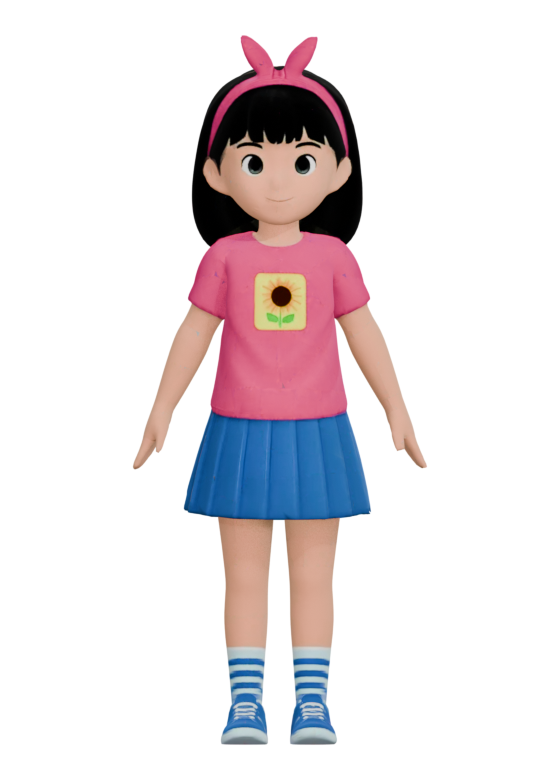
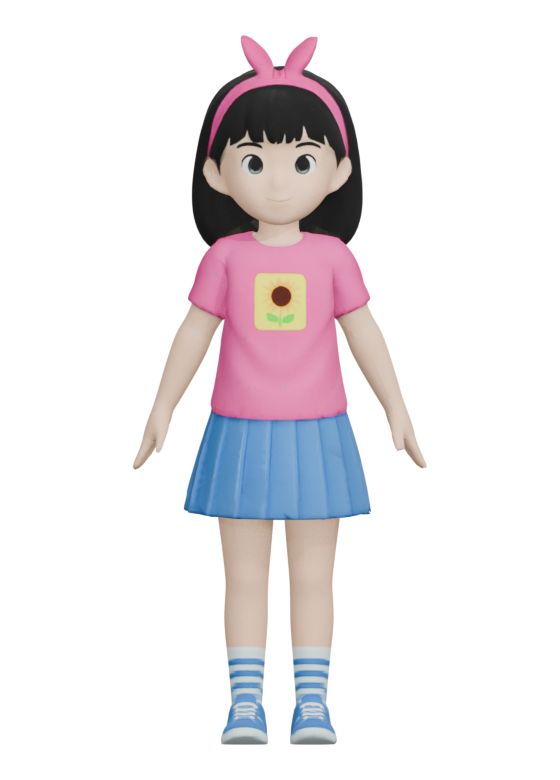
fix: take the gloss off the characters, and drop zoom from the lab
The sources carry Mixamo's default roughness of 0.5, which reads as wet plastic
on a cloth character. avatar-export.py now writes roughness 1.0 explicitly.

The same pass found a second fault worth more than the gloss: one of the four
exported with no metallic factor at all, and glTF reads a missing metallic
factor as 1.0 -- fully metal. Metallic is now written as 0 explicitly, so
neither value is left to a default that happens to be wrong.

Zoom is off. Turning is the whole interaction; zoom took the body off the floor
it was composed on, and scrolling over a canvas mid-page stole the page's own
scroll.

Changed region(s): [[0.2429, 0.0308, 0.7589, 0.9538]]

diff --git a/components/studio/character-stage.tsx b/components/studio/character-stage.tsx
@@ -16,7 +16,7 @@ export type CharacterStageProps = {
   /** Rendered height in pixels; the canvas is sized to it. */
   height: number;
   eager?: boolean;
-  /** Let the member turn and zoom the body. For the lab, not for a dashboard. */
+  /** Let the member turn the body. For the lab, not for a dashboard. */
   interactive?: boolean;
   /** Play the entry animation when the body changes. */
   animate?: boolean;
@@ -64,11 +64,13 @@ export function CharacterStage({
           <OrbitControls
             makeDefault
             enablePan={false}
+            // Turning is the whole interaction. Zoom took the body off its floor
+            // and out of the frame it was composed for, and scrolling over a
+            // canvas mid-page stole the page's own scroll.
+            enableZoom={false}
             // Aimed at the chest rather than the origin, which sits near the feet
             // once the body is stood on the floor of the frame.
             target={[0, -0.2, 0]}
-            minDistance={3.2}
-            maxDistance={9}
             // Stops short of the poles: from directly overhead or below, a body
             // standing on a floor reads as a mistake.
             minPolarAngle={0.7}

diff --git a/components/studio/character-picker.tsx b/components/studio/character-picker.tsx
@@ -89,7 +89,7 @@ export function CharacterCarousel({
       </div>
 
       <p className="pointer-events-none absolute inset-x-0 bottom-1 z-10 text-center text-[10px] text-ink-faint">
-        Drag to turn · scroll to zoom
+        Drag to turn
       </p>
     </div>
   );

diff --git a/scripts/assets/avatar-export.py b/scripts/assets/avatar-export.py
@@ -2,7 +2,9 @@
 #
 #   blender -b D:\Blender\characters_working.blend -P scripts/assets/avatar-export.py -- <repo-root>
 #
-# Materials are left exactly as drawn (D-52). The A-pose is baked into the mesh
+# Each character keeps its authored colour (D-52); only the surface response is
+# corrected, because the sources ship Mixamo's glossy defaults. The A-pose is
+# baked into the mesh
 # and the rig is dropped, so the exported geometry is the body in world
 # coordinates: three's Box3 then measures what is actually drawn, which is what
 # makes every character come out the same size. Animation will need this run
@@ -59,12 +61,16 @@ def bake_pose(mesh):
         bpy.data.objects.remove(rig, do_unlink=True)
 
 
-def quiet_emission(mesh):
-    """Drop any emission the source file left wired up.
+def matte_material(mesh):
+    """Take the shine off, and unwire anything the source left self-lit.
 
-    One of the four routes its base colour into Emission as well, which makes it
-    self-lit: it reads as washed out next to the other three no matter what the
-    scene lighting does.
+    Three of the four arrive at Mixamo's default roughness of 0.5, which reads as
+    wet plastic on a cloth character. The fourth carries no metallic value at
+    all, and glTF reads a missing metallic factor as 1.0 -- fully metal -- so
+    both are set explicitly rather than left to a default.
+
+    One of the four also routes its base colour into Emission, which makes it
+    self-lit and washed out next to the rest whatever the scene lighting does.
     """
     for slot in mesh.material_slots:
         material = slot.material
@@ -74,11 +80,15 @@ def quiet_emission(mesh):
         bsdf = next((n for n in tree.nodes if n.type == "BSDF_PRINCIPLED"), None)
         if bsdf is None:
             continue
+
         for link in list(tree.links):
             if link.to_node.name == bsdf.name and link.to_socket.name == "Emission Color":
                 tree.links.remove(link)
         if "Emission Strength" in bsdf.inputs:
             bsdf.inputs["Emission Strength"].default_value = 0.0
+
+        bsdf.inputs["Roughness"].default_value = 1.0
+        bsdf.inputs["Metallic"].default_value = 0.0
 
 
 def stand_at_origin(mesh):
@@ -116,7 +126,7 @@ def export(mesh, path):
 def process(name, repo_root):
     mesh = bpy.data.objects[f"{name}-mesh"]
     bake_pose(mesh)
-    quiet_emission(mesh)
+    matte_material(mesh)
     stand_at_origin(mesh)
 
     out = os.path.join(repo_root, "assets", "source", f"{name}.glb")

diff --git a/Context.md b/Context.md
@@ -96,7 +96,7 @@ Two behavioural goals:
 
 | D-50 | **A member's colours are per-part materials on the model, not a shader.** The four characters arrive as one welded mesh with one baked 2048px texture each, so every colour is painted into pixels and none of it can change at runtime. `scripts/assets/avatar-parts.py` labels each triangle with the part it belongs to -- from the body region its heaviest bone implies, plus how close its texel sits to that character's own cluster colours -- splits the mesh into one material per part, and rewrites the baked texture as a luminance map normalised per part. A part then recolours by writing `material.color`, which three multiplies with that luminance, so the shading survives and no custom shader is needed. Two consequences are deliberate. A triangle no reference colour claims becomes `detail`, which keeps the original colour texture and is never tinted -- eyes, a printed logo, a shoe's red flashes and the pink bow all look as drawn, and being over-inclusive there is safe, because `detail` only ever means "leave this alone". And a garment's secondary hue is left unreferenced on purpose, so a swatch repaints the shoe and leaves its trim. The bodies export standing at the origin, 1.5m tall, in an A-pose rather than the authoring T-pose. `scripts/assets/avatar-stills.py` renders a still per character from the shipped `.glb`, replacing the three placeholder PNGs: a live canvas is spent only where one body is shown and can change -- the dashboard hero and the character lab -- while the login crowd, the podium and every leaderboard row use the still, which is also the DOM fallback when there is no GPU, so the two are never different characters. |
 | D-51 | **A member's avatar is saved in `MemberAvatar`, a table of its own.** The chosen character plus a colour per part (D-50) persist, closing O-14. It is not columns on `Member`, because `Member` is the GIS sync projection and its `lastSyncedAt` is `@updatedAt` -- saving an avatar there would keep reporting a sync that never happened. A NULL colour means the part keeps the colour it was authored with, which is not any hex a member could pick, so the column is nullable rather than defaulted. The member id comes from the session and is never accepted from the client. Colours are validated as `#RRGGBB` rather than checked against the swatch lists, because the lab also offers a picker for the garments, where any colour is reachable; the character id *is* checked against the four, because it names a `.glb` that has to exist. `/me` and the dashboard hero read the saved avatar; every other surface still shows the body a member's name hashes to, because those screens render other people and a per-row lookup is not worth it yet. |
-| D-52 | **The characters ship as they were drawn, and recolouring is parked.** D-50 split each mesh into per-part materials over a luminance map so a member could repaint skin, hair and garments. It worked, but it cost the models their look: a luminance map plus a tint flattens the painted shading, and the one character whose source wired its base colour into Emission as well read as self-lit next to the rest. Reviewed against what this product is for -- ranking exchange performance -- perfecting a dress-up feature is not where the time goes. `scripts/assets/avatar-export.py` now exports the authored materials untouched; `avatar-parts.py` and every client-side piece of the recolouring stay in the tree, commented, so restoring it is uncommenting rather than rewriting. `MemberAvatar` keeps its nullable colour columns for the same reason -- no migration either way. Two things come free with the simpler export. The A-pose is baked into the geometry and the rig dropped, so the shipped body is in world coordinates and three's `Box3` measures what is drawn -- which is what finally made all four render at the same size, after two attempts that measured a skinned mesh's bind pose instead. And each character gains a name -- Milo, Remi, Sami, Juno -- plus a portrait render, so a member picks one at first sign-in (`/welcome`) and their character's face becomes their profile picture everywhere. The lab is now a viewer: drag to turn, scroll to zoom, and a body turns in when it is swapped. Animation still needs the export re-run with `export_skins`, which the .blend is still set up for. |
+| D-52 | **The characters ship as they were drawn, and recolouring is parked.** D-50 split each mesh into per-part materials over a luminance map so a member could repaint skin, hair and garments. It worked, but it cost the models their look: a luminance map plus a tint flattens the painted shading, and the one character whose source wired its base colour into Emission as well read as self-lit next to the rest. Reviewed against what this product is for -- ranking exchange performance -- perfecting a dress-up feature is not where the time goes. `scripts/assets/avatar-export.py` now exports the authored materials untouched; `avatar-parts.py` and every client-side piece of the recolouring stay in the tree, commented, so restoring it is uncommenting rather than rewriting. `MemberAvatar` keeps its nullable colour columns for the same reason -- no migration either way. Two things come free with the simpler export. The A-pose is baked into the geometry and the rig dropped, so the shipped body is in world coordinates and three's `Box3` measures what is drawn -- which is what finally made all four render at the same size, after two attempts that measured a skinned mesh's bind pose instead. And each character gains a name -- Milo, Remi, Sami, Juno -- plus a portrait render, so a member picks one at first sign-in (`/welcome`) and their character's face becomes their profile picture everywhere. The export also corrects the surface, which the sources get wrong in two ways: three of the four carry Mixamo's default roughness of 0.5, which reads as wet plastic on a cloth character, and the fourth carries no metallic factor at all -- which glTF reads as fully metal. Both are now written explicitly, matte and non-metal. The lab is a viewer: drag to turn, and a body turns in when it is swapped. Zoom is deliberately off -- it took the body off the floor it was composed on, and scrolling over a canvas mid-page stole the page's own scroll. Animation still needs the export re-run with `export_skins`, which the .blend is still set up for. |
 ---
 
 ## 4. Identity: what exists in GIS and what does not
